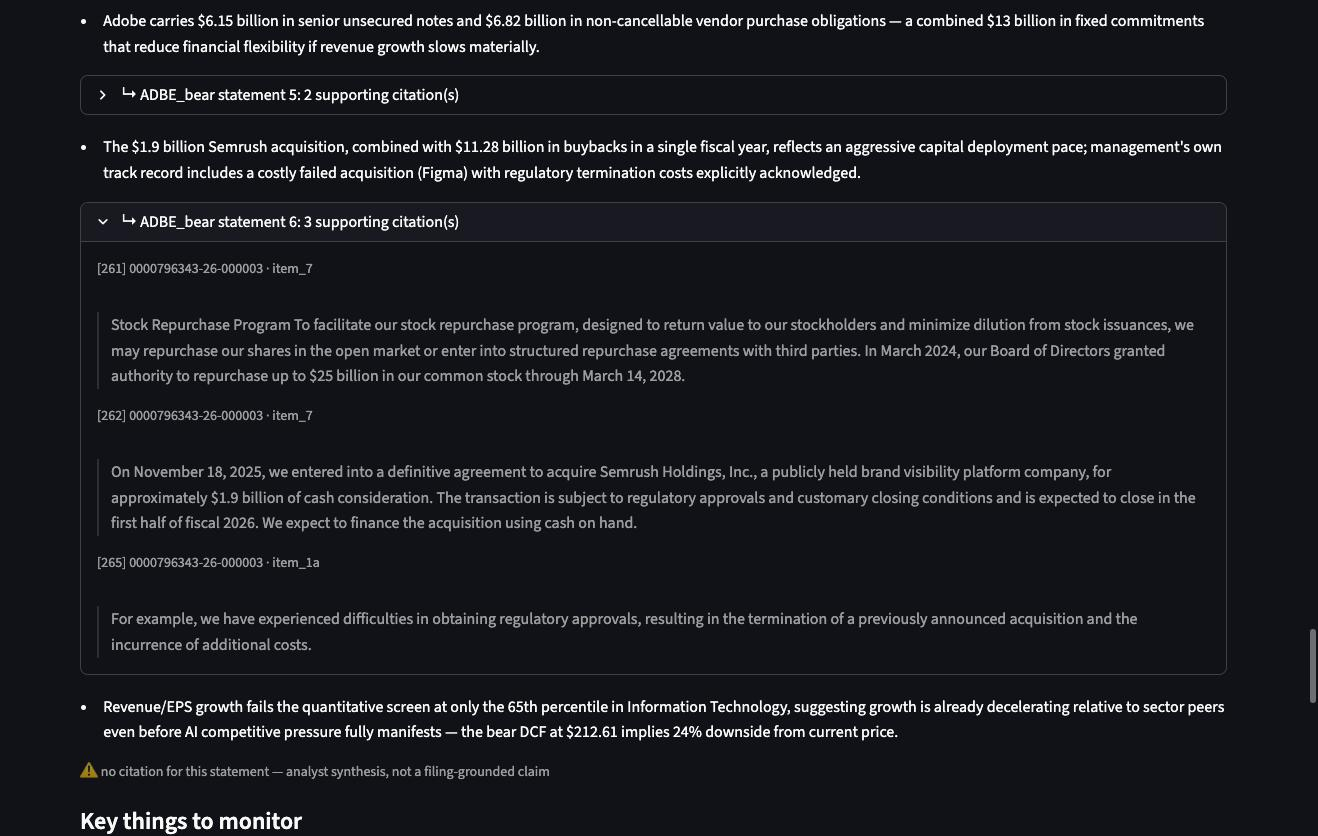
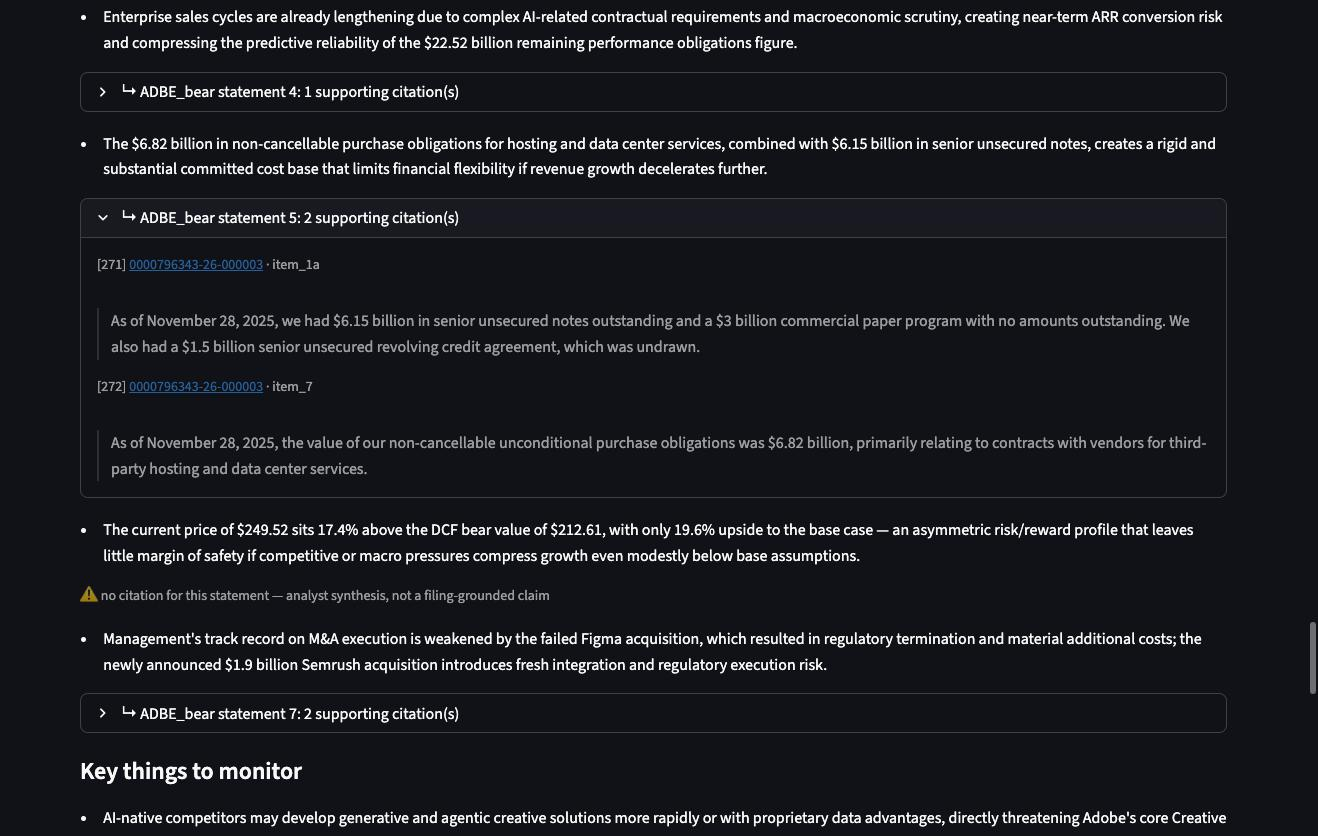
Sprint 5 close-out: file #12-#14, re-capture README screenshots
- GitHub #12 (monitor items drop citation refs), #13 (committee cache key
  omits rendered sector fields), #14 (metrics --check date false
  positive), from the Sprint 5 judge runs; added to docs/known-issues.md
  and referenced from sprint-5.md.
- docs/img/*.jpg re-captured against the final committee run
  (20260923T153351Z) at the same 1318x836 frame: Overview funnel
  518/505/109/81, the ADBE brief's expanded citations now show their
  EDGAR-linked accession numbers, PLTR's screen breakdown, and the
  Valuation table on refreshed prices (ABNB's negative-bear label).
- Dashboard Overview caption: no longer calls the committee "a
  deliberately partial pilot" — says why the other passers have no brief
  and that the 70/50 thresholds are the eval's to validate.
- README screenshot prose/alt text and metrics updated to match.

Claude-Session: https://claude.ai/code/session_01D9wEa5hM7LSvt43N7A7wBZ

diff --git a/moat/dashboard/app.py b/moat/dashboard/app.py
@@ -469,10 +469,11 @@ else:
 
         if latest_committee_run is not None:
             st.caption(
-                f"Committee briefs are a deliberately partial pilot ({committee_n}/{passed_n} "
-                "companies that passed the screen) — not every passing company has been run "
-                "through yet, and `assign_status()`'s 70/50 score thresholds are pilot-then-lock "
-                "starting values, not yet validated against real output. See sprint-5-plan.md."
+                f"Committee briefs cover {committee_n}/{passed_n} companies that passed the "
+                "screen — the rest are excluded for known, filed data defects (docs/known-issues.md) "
+                "or have no current AI analysis. `assign_status()`'s 70/50 score thresholds are "
+                "starting values, not yet validated; that's the external-benchmark eval's job "
+                "(see docs/sprints/sprint-5.md)."
             )
 
         st.subheader("Screen pass rate by sector")

diff --git a/docs/known-issues.md b/docs/known-issues.md
@@ -28,6 +28,9 @@ to fetch the GitHub issue first.
 | [#8](https://github.com/petehawtree/moat/issues/8) | `price_history.close` is fetched with yfinance's default `auto_adjust=True` — dividend-adjusted (deflated), not the price that actually traded. Historical P/E = deflated price ÷ full EPS understates a company's own past P/E multiples, worse for older dates and higher-yield names. Verified: KO's 2-year-old stored close is 6.1% below its real traded close. Splits are *not* the mechanism (yfinance's raw Close is already split-adjusted regardless of `auto_adjust` — confirmed against NVDA's real 2024 split) | `moat/ingest/prices.py::fetch_price_history()`, `moat/valuation/engine.py::pe_historical_range()` | Needs a full `price_history` re-ingest with `auto_adjust=False`, not just a forward-looking fix; bounded today by the still-thin 2yr window (§A21) but would compound if that's backfilled first under the current setting; `current_price`/DCF/margin-of-safety are unaffected (near-zero adjustment lag at the most recent date) |
 | [#10](https://github.com/petehawtree/moat/issues/10) | `depreciation_amortization` extracted **wrong, not missing**: NEE stores $65M against a correct $6,580M (~101x) because the split-sum tier zero-fills an absent `Depreciation` tag and pre-empts the correct `DepreciationAndAmortization` via `setdefault`; AES stores a negative value (−$1,457M FY2025) because the combined tier has no sign guard. 21 negative rows across 11 tickers (AES, ALL, CSGP, FFIV, GEN, GPC, KKR, LLY, LUV, WRB, WTW) | `moat/ingest/fundamentals_edgar.py::_depreciation_amortization()` | **CBRE's verdict is affected**: all ten years of its trailing DCF window come from the amortization-only path at ~half the correct D&A, understating owner earnings by $247M/yr against a $1,098M base (22.5%). It scored 49.5/Reject against a Watch threshold of 50. LII is affected at 2.8% (Reject, 45.6 — not threshold-adjacent). NEE and BKNG are inert (no DCF). Error direction is conservative — understates intrinsic value, so it suppresses genuine Investigates rather than manufacturing false ones. NEE's 101x case stays masked only while its capex is NULL (#9, extension-only tags) |
 | [#11](https://github.com/petehawtree/moat/issues/11) | `dcf_scenario()` records `trailing_years_used` but never guards or surfaces it — a 3-year and a 10-year owner-earnings base are indistinguishable downstream, and `valuation_score` weights them equally. 21/109 valuations use <10 years, 12 use <=5 (WAT 3; ABNB/ALAB/KVUE/SHOP/SNDK 4; CRH/EW/GOOG/GOOGL/NVDA/PAYX 5) | `moat/valuation/engine.py::dcf_scenario()` | **NVDA's verdict already moved on this**: Investigate 70.1 with no DCF (#9) -> Watch 68.5 once the capex fix gave it one, built on 5 years and scoring valuation 8. WAT carries a Reject on 3 years. #9 makes short windows *more* common, since recovered capex often starts mid-history. The fix already exists 270 lines earlier in the same file — `pe_historical_range()`'s `MIN_PE_RANGE_YEARS` + `low_confidence` (engine.py:266/294) — and was never carried over, the same carry-over class as #6 |
+| [#12](https://github.com/petehawtree/moat/issues/12) | Investment Brief "Key things to monitor" items render as plain text with no citation expander and no "no citation" flag — `_stitch_key_things_to_monitor()` keeps the Bear statements' text but drops their refs | `moat/committee/committee.py::_stitch_key_things_to_monitor()`, `moat/dashboard/app.py` | Needs a monitor-item shape change (text + refs) and a renderer accepting both old and new rows; the same statements *with* citations are one section up, under Bear case |
+| [#13](https://github.com/petehawtree/moat/issues/13) | Committee cache key omits `sector_peer_group` and company name/sector, which the persona prompt renders — a sector reclassification returns an identical bundle key and serves a stale verdict | `moat/committee/committee.py::compute_committee_bundle_key()` | Any key change invalidates every cached verdict once (a full ~$5 re-score); batch it with the next deliberate full re-run rather than paying for it alone |
+| [#14](https://github.com/petehawtree/moat/issues/14) | `scripts/metrics.py --check` fails whenever only the render date differs, with identical metric values | `scripts/metrics.py` | Advisory gate only (METRICS_ENFORCE unset); noise, not a wrong number |
 
 ## Known, deliberate design decisions (not defects)
 

diff --git a/README.md b/README.md
@@ -25,9 +25,9 @@ figure) and the Sprint 3.1 retro for the 70-company/citation batch run:
 <!-- metrics:start -->
 | | | |
 |---|---|---|
-| 120 commits | 518-company universe, 506 with fundamentals | 109/505 pass the quant screen |
+| 121 commits | 518-company universe, 506 with fundamentals | 109/505 pass the quant screen |
 | 86 companies fully AI-analyzed, 2,883 citations | ~$28.1 total AI spend across every pilot to date | 330 tests, 329 passing (1 opt-in live-API test) |
-| 11 GitHub issues filed, 9 open — tracked, not hidden | | |
+| 14 GitHub issues filed, 12 open — tracked, not hidden | | |
 
 Sources: commit count is `git rev-list --count HEAD`. Universe/fundamentals coverage and the screen result are cross-checked live against `data/moat.db` (Sprint 1 / Sprint 3.1 retros give the history). The AI-analyzed/citation figures are the Sprint 3.1 batch run. Spend is the analysis-stage total from `analysis_attempts.cost_estimate` (data-derived, all outcomes — a failed attempt still cost real money) plus the Sprint 5 committee pilot's spend, which the committee stage computes but doesn't persist, so that one figure stays hand-maintained (see `docs/metrics.json`). Test count is `pytest`'s own collection, run against `HEAD`. Issue count is [GitHub Issues](https://github.com/petehawtree/moat/issues). Generated by `scripts/metrics.py --render`, 2026-09-23.
 <!-- metrics:end -->
@@ -40,17 +40,19 @@ actually happened, sprint by sprint) · [docs/known-issues.md](docs/known-issues
 
 ## The product in 60 seconds
 
-**Overview** — the screening funnel (518 → 505 screened → 91 passed → 21
+**Overview** — the screening funnel (518 → 505 screened → 109 passed → 81
 committee briefs → Investigate/Watch/Reject), with a caption explaining why
-the pilot is deliberately partial:
+the other 28 passers have no brief and that the status thresholds aren't
+validated yet:
 
-<img src="docs/img/overview.jpg" alt="Overview tab: funnel metrics 518/505/91/21/1/15/5, a caption explaining the committee pilot is deliberately partial, and a screen-pass-rate-by-sector bar chart." width="100%">
+<img src="docs/img/overview.jpg" alt="Overview tab: funnel metrics 518/505/109/81/2/53/26, a caption explaining the excluded passers and the unvalidated 70/50 thresholds, and a screen-pass-rate-by-sector bar chart." width="100%">
 
-**Investment Committee** — a brief (Adobe) showing a resolved citation
-(the actual 10-K quote behind a claim) *and* a statement carrying the
-explicit "no citation" flag, side by side:
+**Investment Committee** — a brief (Adobe) showing resolved citations
+(the actual 10-K quotes behind a claim, each linked to the filing on SEC
+EDGAR) *and* a statement carrying the explicit "no citation" flag, side by
+side:
 
-<img src="docs/img/committee-brief.jpg" alt="Investment Committee brief for Adobe: an expanded citation showing the original 10-K quote and accession number, next to a statement flagged with a no-citation warning as analyst synthesis rather than a filing-grounded claim." width="100%">
+<img src="docs/img/committee-brief.jpg" alt="Investment Committee brief for Adobe: an expanded bear-case statement showing two original 10-K quotes with their accession numbers linked to SEC EDGAR, next to a statement flagged with a no-citation warning as analyst synthesis rather than a filing-grounded claim." width="100%">
 
 **Universe & Screening** — a per-metric PASS/FAIL/UNAVAILABLE breakdown
 (Palantir, showing all three):

diff --git a/docs/sprints/sprint-5.md b/docs/sprints/sprint-5.md
@@ -197,7 +197,7 @@ Pre-push judge runs this sprint, all archived in
   once the known-issues allowlist existed.
 - **2026-09-22, FAIL** ([report](../judge-reports/judge-report-sprint-5-20260922-184711.md)):
   one HIGH (the brief mixing input runs, fixed as item 1 above) and two
-  MEDIUMs, **both still open** (see Carried forward).
+  MEDIUMs, **both still open**, filed as #12/#13 (see Carried forward).
 - **2026-09-23 10:44, FAIL** ([report](../judge-reports/judge-report-sprint-5-20260923-104446.md)):
   one HIGH (analyses not superseded, fixed as item 2).
 - **2026-09-23 11:41, PASS WITH CONCERNS** ([report](../judge-reports/judge-report-sprint-5-20260923-114138.md)):
@@ -213,14 +213,14 @@ Pre-push judge runs this sprint, all archived in
 ## Carried forward
 
 - **Thresholds**: to the external-benchmark eval, as above.
-- **Two MEDIUM judge findings (2026-09-22), not yet filed:**
-  - "Key things to monitor" keeps only the Bear statements' text, dropping
+- **Two MEDIUM judge findings (2026-09-22), filed as #12 and #13:**
+  - #12: "Key things to monitor" keeps only the Bear statements' text, dropping
     their refs, so monitor items render with neither citations nor the
     no-citation flag.
-  - The committee cache key omits fields the prompt renders
+  - #13: the committee cache key omits fields the prompt renders
     (`sector_peer_group`, company name/sector), so a sector reassignment
     can serve a stale verdict.
-- **`metrics.py --check` date false positive** (Low, 09-23 17:09): the
+- **#14, `metrics.py --check` date false positive** (Low, 09-23 17:09): the
   advisory check fails every day after rendering, even with identical
   values.
 - **GitHub #10** (D&A extracted *wrong*, e.g. NEE 101× too small; CBRE's
